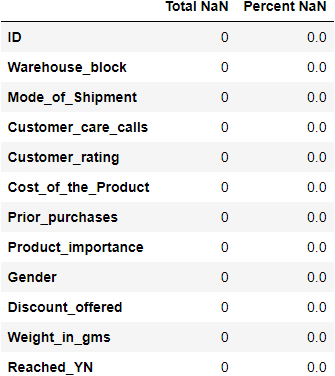
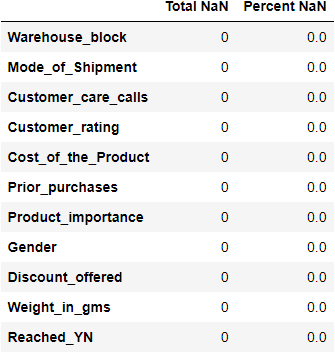
Data visualisations

diff --git a/EDA.py b/EDA.py
@@ -17,10 +17,11 @@ dfi.export(data.head(5),"Outputs/data.png")
 
 
 """type(Reached_YN) = Integer : Puisque notre probleme est de classification (binaire) donc il faut convertir la variable cible (Reached_On_Time)
-de Integer to Object """
+de Integer to Object. Ainsi, la variable ID n'a aucune importance, nous allons donc la supprimer."""
 
 data.rename(columns={'Reached.on.Time_Y.N':'Reached_YN'}, inplace=True) # Rename the Label features
 data['Reached_YN'] = data['Reached_YN'].astype(np.object)
+data.drop('ID', axis = 1 , inplace = True)
 
 # 2. Missing Values in Dataset: Check if there are a NaN value 
 
@@ -31,8 +32,6 @@ NaN_df = pd.concat([all_NaN_values, percent_NaN], axis=1, keys=['Total NaN', 'Pe
 """ Nous voyons qu'il n'y a pas de valeurs invalides, nous pouvons donc poursuivre l'exploration."""
 print(NaN_df)
 dfi.export(NaN_df,"Outputs/NaNDf_percent.png")
-
-
 
 # 3. Describe the Features 
 print(data.describe(include=np.number)) #Continuous variables
@@ -49,7 +48,15 @@ A partir de l'exploration initiale ci-dessus, nous voyons que :
 - Environ 60%. des colis ne sont pas livré en temps (On peut dire qu'on une Balanced dataset)
 """
 
-# 4. 
+# 4. Data Visualizations
+catg_var = list(data.select_dtypes(include=['object']).columns)
+cont_var = list(data.select_dtypes(exclude=['object']).columns)
+
+sns.set_theme(style="darkgrid")
+for var in catg_var:
+    ax = sns.countplot(x="Reached_YN", hue = var, data=data)
+    ax.figure.savefig("Outputs/CountPlot/cnt_plot_ReachedYN_{}.png".format(var))
+
 
 
 
